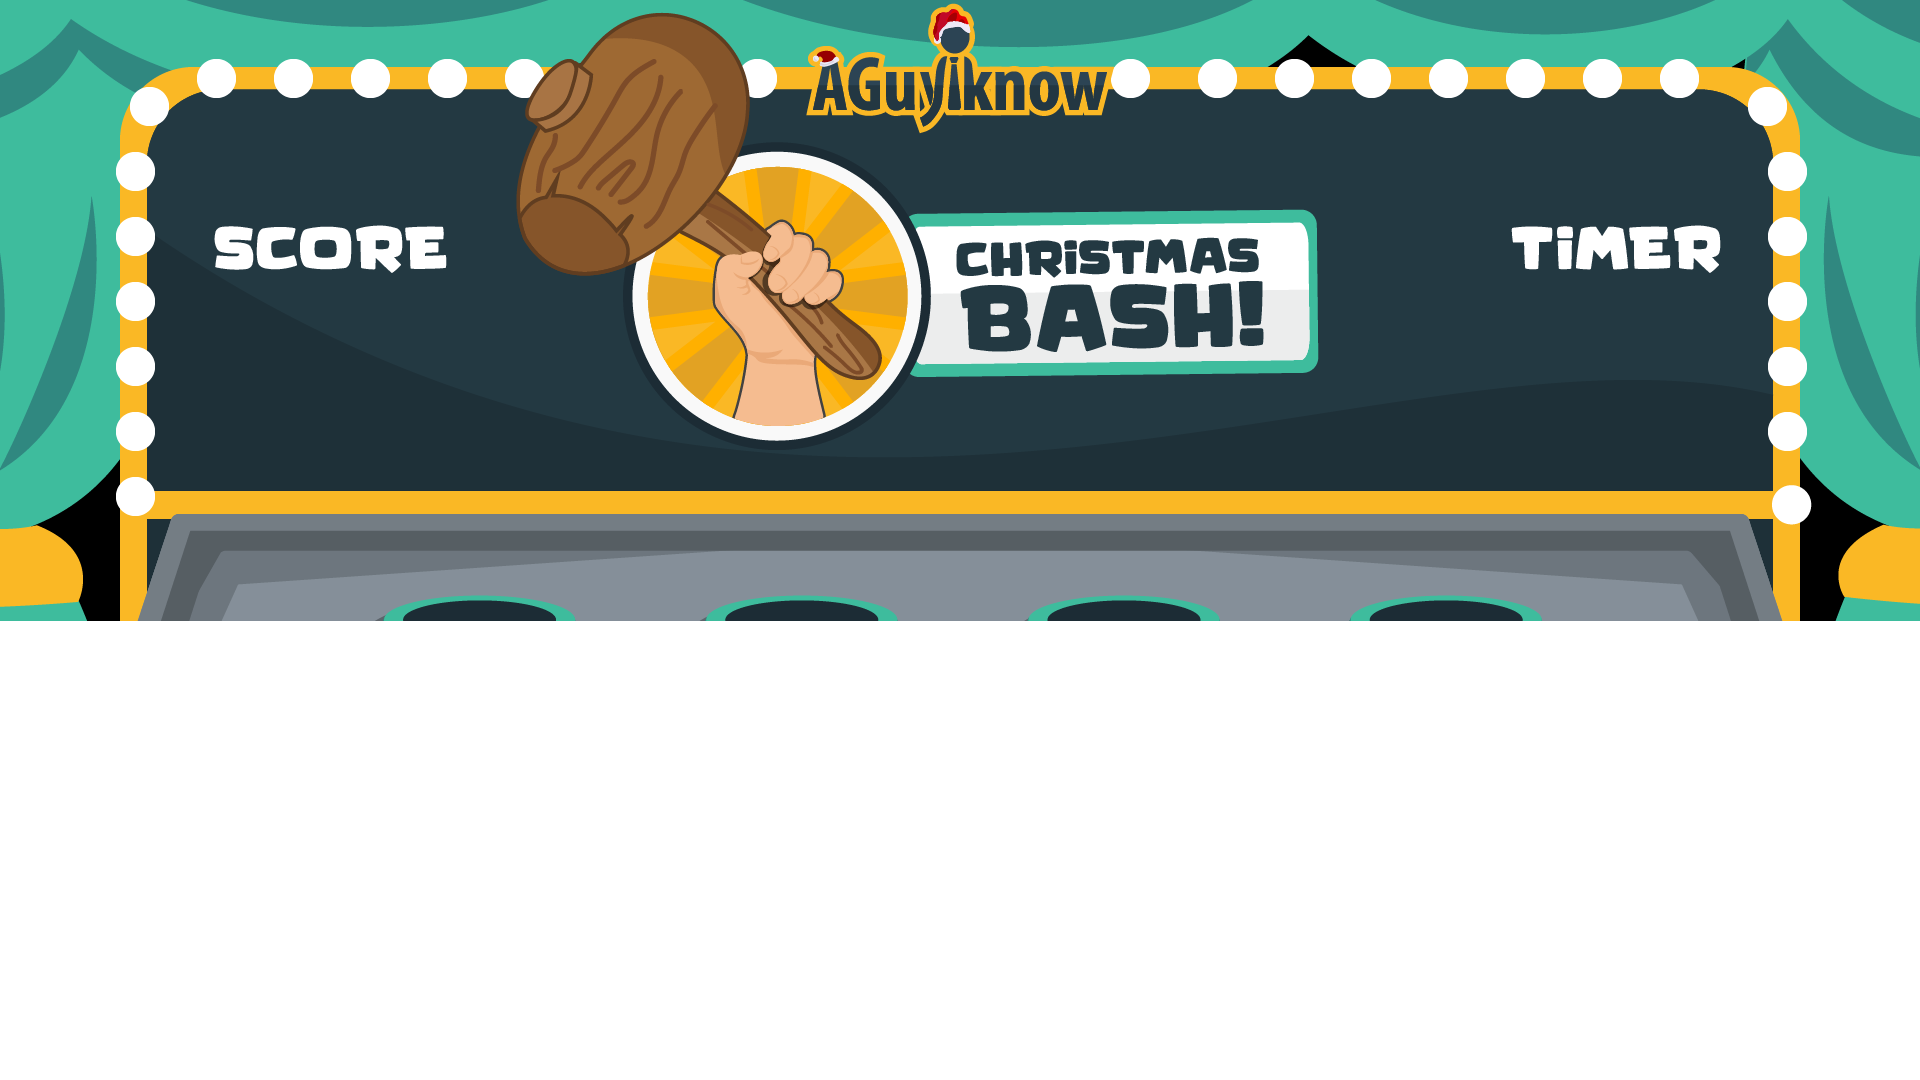
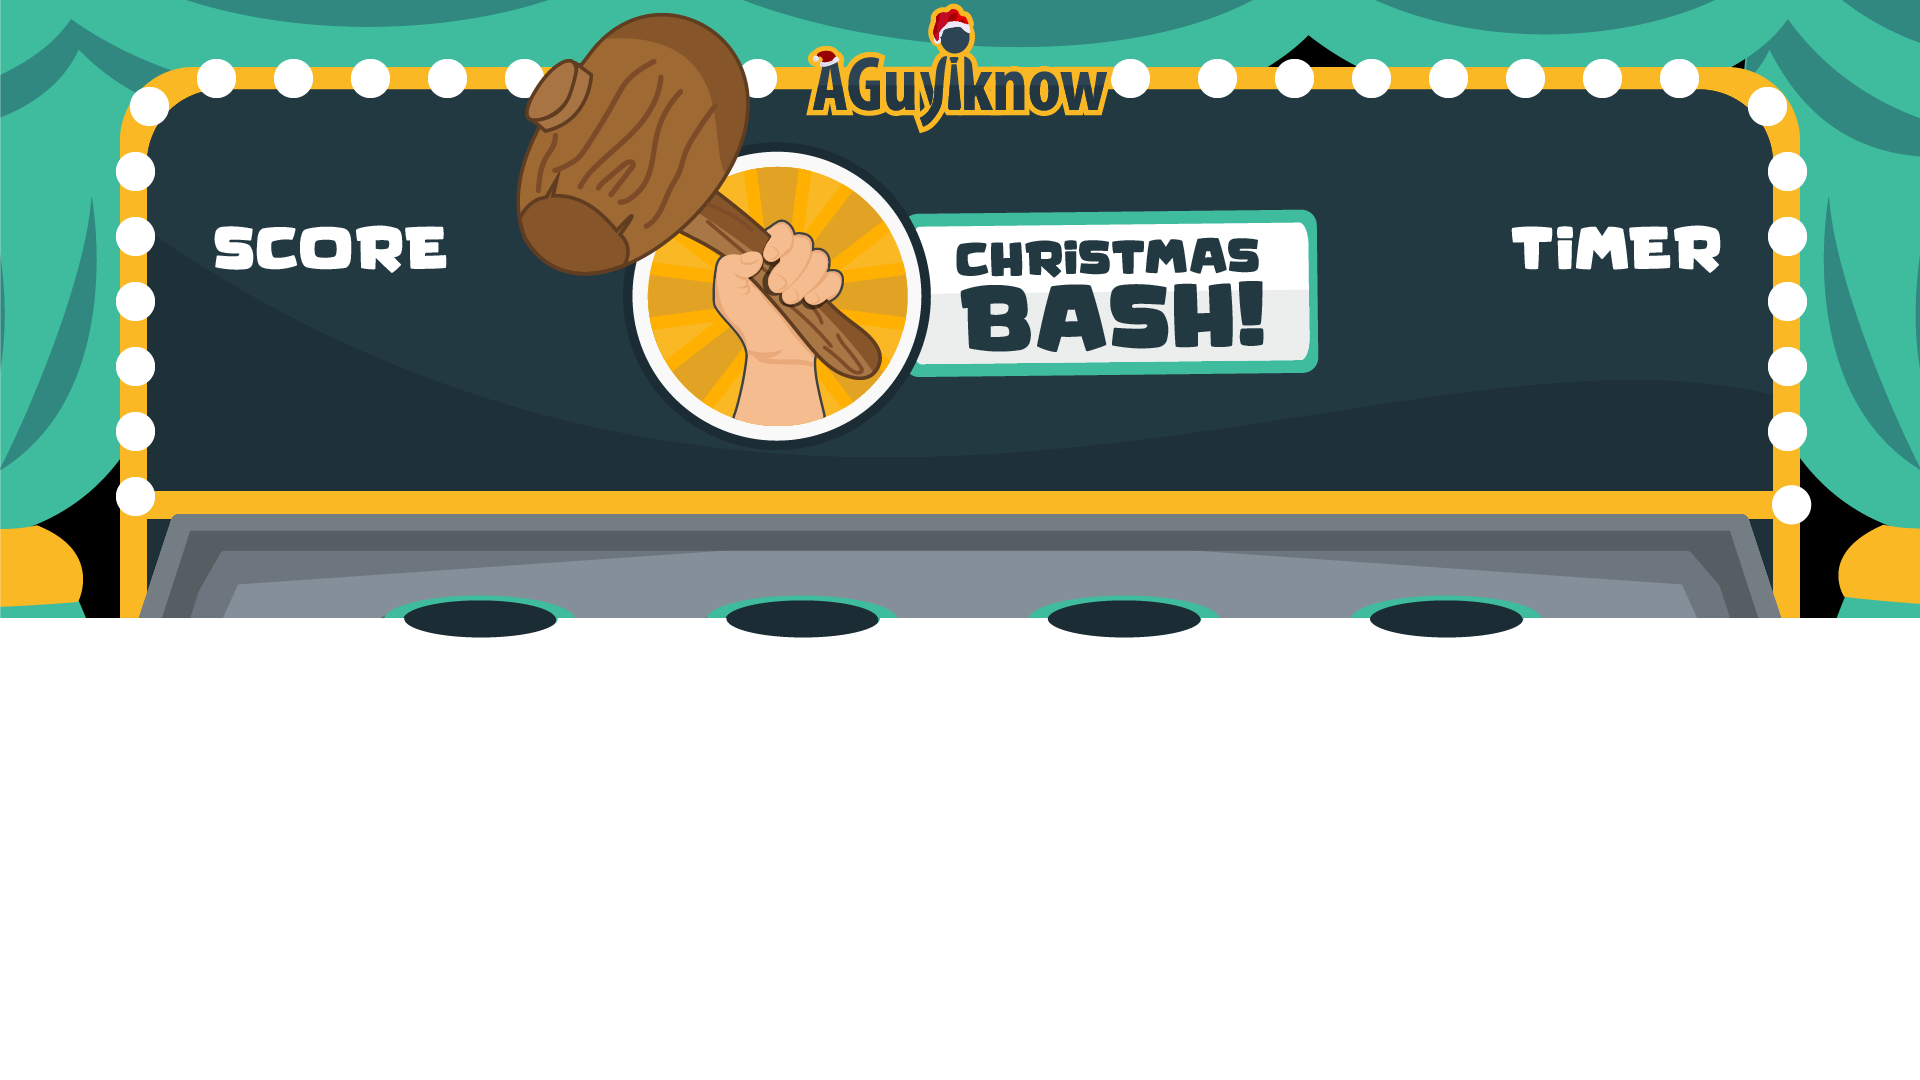
Added snow blast and updated background images

diff --git a/public/js/game.js b/public/js/game.js
@@ -22,12 +22,22 @@ import { PopupPlugin } from "./classes/plugins/Popup.js";
 
 // Mole class specific to this game
 class Mole extends Phaser.GameObjects.Image {
-    constructor(scene, x, y, key) {
+    constructor(scene, x, y, key, group) {
         super(scene, x, y, key);
         scene.add.existing(this);
         this.scene = scene;
+        this.group = group;
         this.startY = y;
         this.endY = y - constants.moleDisplacement;
+
+        this.whackedAnim = scene.add.sprite(this.x, this.endY, "snowBlast", "0").setScale(constants.animationScale).setDepth(1);
+        this.whackedAnim.anims.create({
+            key: "whacked",
+            frames: animations.snowBlast.frames,
+            repeat: 0,
+            frameRate: 48,
+        });
+
         this.setScale(constants.moleScale).setInteractive({ useHandCursor: false }).setVisible(false);
         this.on("pointerdown", () => { moleClicked(this) });
         this.visibleTimeout;
@@ -82,6 +92,7 @@ class Mole extends Phaser.GameObjects.Image {
             this.setVisible(false);
         } else if(reason === "whacked") {
             audio.effects.successfulWhack.play();
+            this.whackedAnim.play("whacked");
             this.reset();
             this.setVisible(false);
             this.visibleTimeout = setTimeout(() => {
@@ -234,6 +245,7 @@ const constants = (screenSize === 'lg') ? {
     inputsMarginTop: 590,
     addLeaderboardHTML: "../html/inputs/desktopAddLeaderboardEntry.html",
     hammerScale: 0.75,
+    animationScale: 18,
 } : {
     bg_main: "../images/mainBg/1m top.png",
     instructionsPopupMarginX: 50,
@@ -314,6 +326,7 @@ const constants = (screenSize === 'lg') ? {
     inputsMarginTop: 740,
     addLeaderboardHTML: "../html/inputs/mobileAddLeaderboardEntry.html",
     hammerScale: 0.6,
+    animationScale: 15,
 }
 
 // Initialise global game variables
@@ -321,6 +334,7 @@ var api = new API;
 var screens = {}; // Contains all the game screens
 var popups = {}; // Contains all the game popups
 var audio = {}; // Contains all the sounds used in the game
+var animations = {};
 var player = { // Holds information about the current player
     name: "",
     attempts: 0,
@@ -419,6 +433,9 @@ function create() {
     // Create all audios
     audio = initAudio(this);
 
+    // Create animations
+    animations = initAnimations(this);
+
     // Create screen objects and children
     screens = {
         introScreen: new Screen(this, 0, 0, initIntroScreenChildren(this)),
@@ -432,11 +449,11 @@ function create() {
         addLeaderboardEntry: this.add.popup(0, 0, initAddLeaderboardDataPopup(this)),
     }
 
-    // loadStartScreen();
+    loadStartScreen();
 
-    Object.keys(screens).forEach(screen => screens[screen].setVisible(false));
-    Object.keys(popups).forEach(popup => popups[popup].setVisible(false));
-    gameOver(6969);
+    // Object.keys(screens).forEach(screen => screens[screen].setVisible(false));
+    // Object.keys(popups).forEach(popup => popups[popup].setVisible(false));
+    // gameOver(6969);
 
 }
 
@@ -545,7 +562,8 @@ function initMainGameChildren(scene) {
                 scene,
                 constants.moleCoordinates[rowNum*row.length + i][0],
                 constants.moleCoordinates[rowNum*row.length + i][1],
-                setMoleTexture()
+                setMoleTexture(),
+                scene.add.group()
                 );
         });
 
@@ -903,4 +921,13 @@ function initAudio(scene) {
     audio.effects["unsuccessfulWhack"] = scene.sound.add("unsuccessfulWhack", { loop: false, volume: 0.6 });
 
     return audio;
+}
+
+function initAnimations(scene) {
+    var objects = { snowBlast: { frames: [], }, };
+    for (var i=0; i<23; i++) {
+        objects.snowBlast.frames.push({ key: "snowBlast", frame: i.toString() });
+    }
+
+    return objects;
 }
